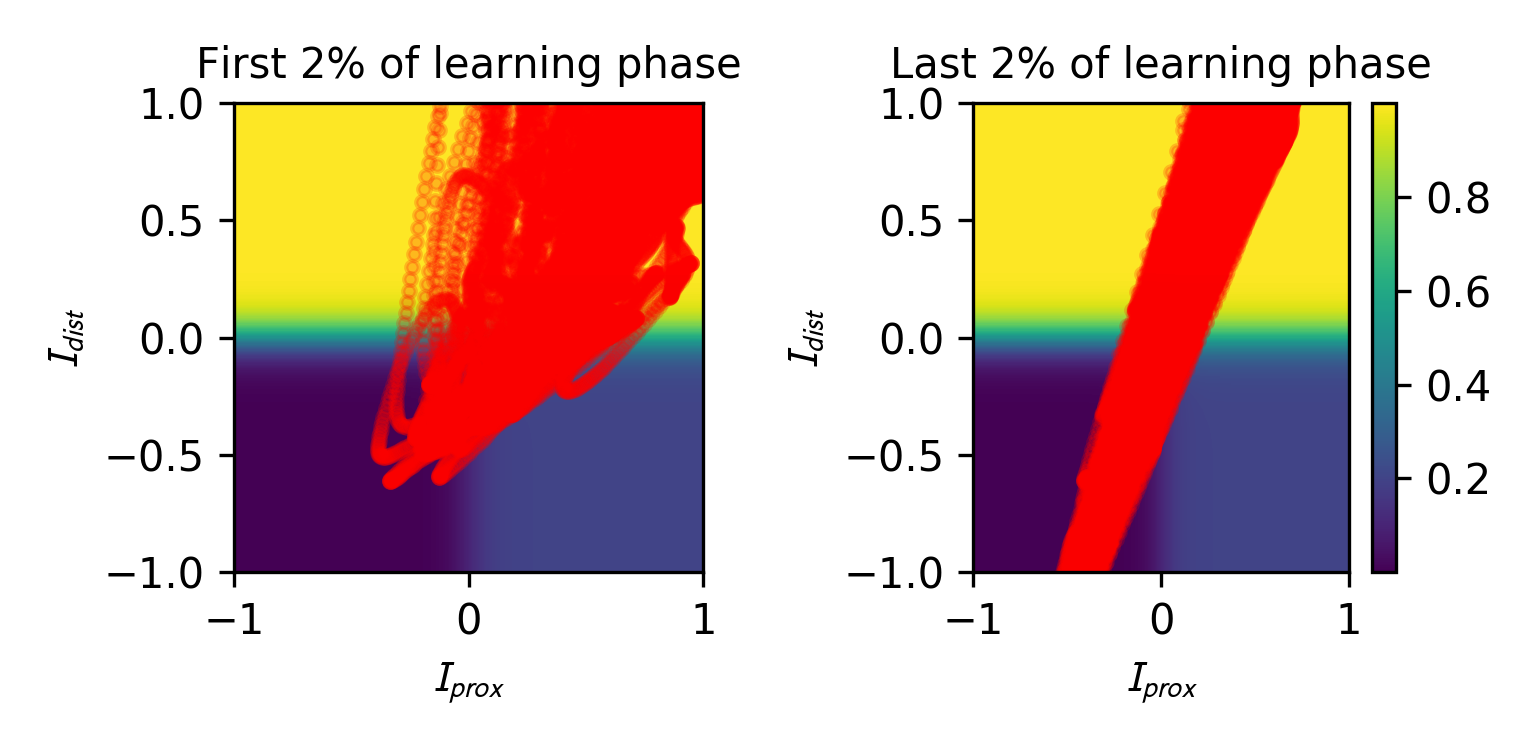
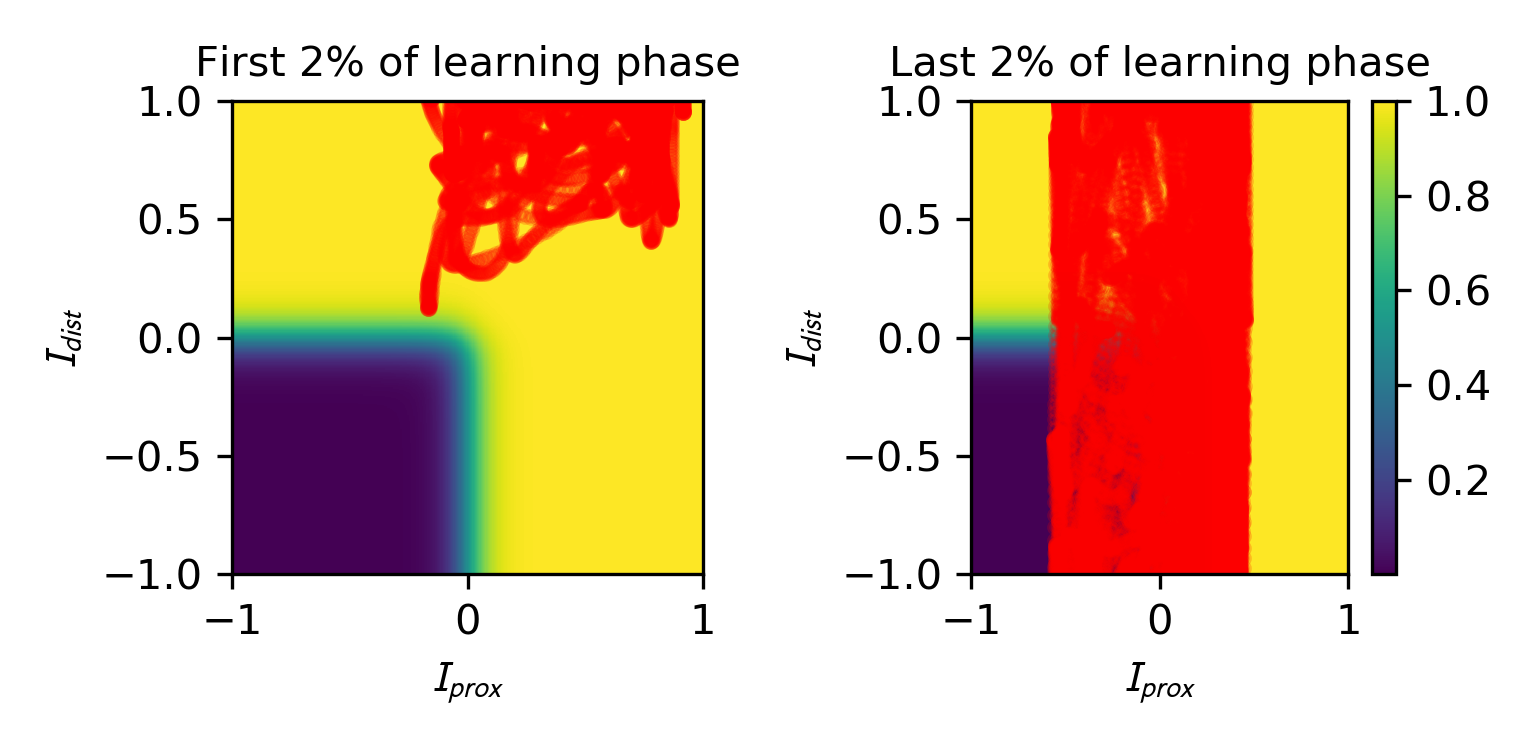
.

diff --git a/code/clopath_reduced_model.py b/code/clopath_reduced_model.py
@@ -1,0 +1,216 @@
+#!/usr/bin/env python3
+
+import numpy as np
+import matplotlib.pyplot as plt
+
+from tqdm import tqdm
+
+import pdb
+
+## Parameters
+
+dt = 0.0001 # simulation time step, secs
+
+T = .5 # simulation time, secs
+
+
+g_L = 40.*10.**(-3.) # leak conductance, mS
+E_L = -69. # resting potential, mV
+C = 281.*10.**(-6.) # membrane capacitance, mF
+τ_ampa = 0.002 # AMPA time constant, secs
+E_ampa = 0. # AMPA reversal potential, mV
+τ_nmda = 0.05 # NMDA time constant, secs
+E_nmda = 0. # NMDA reversal potentia, mV
+g_ampa = 100.*10.**(-3.) # maximal AMPA conductance, mS
+g_nmda = 50.*10.**(-3.) # NMDA conductance, mS
+θ = 20. # spiking threshold, mV
+Δ_T = 2. # slope factor, mV
+V_Trest = -50.4 # adaptive threshold rest value, mV
+V_Tmax = -30.4 # adaptive threshold max value, mV
+τ_VT = 0.05 # adaptive threshold time constant, secs
+V_reset = -55. # voltage reset, mV
+τ_neg = 35. # low-pass filter time constant 1, ms
+τ_pos = 35. # low-pass filter time constant 2, ms
+θ_neg = -69. # depolarisation threshold for plasticity, mV
+θ_pos = -15. # depolarisation threshold for potentiation, mV
+Δ_spike = .001 # spike width, secs
+V_spike = 30. # spike plateau potential, mV
+x_reset = 1. # spike trace reset value
+τ_x = 15. # spike trace time constant, ms
+A_ltd = 5.*10.**(-4.) # depression amplitude, mV^-1
+A_ltp = 15.*10.**(-4.) # potentiation amplitude, mV^-1
+
+τ_noise = 0.02 # membrane noise time constant, secs
+σ_noise = 0.#35.*10.**(-3.) # membrane noise std dev, mA 
+
+
+
+w_prox = 1.
+w_dist = 1.
+
+n_comp = 4
+
+n_mult_single_prox = 10.
+n_mult_connect_prox = 10.
+
+'''
+comp 0: soma
+comp 1: single proximal
+comp 2: connecting proximal
+comp 3: distal
+'''
+labels = ["soma","single proximal","connecting proximal","distal"]
+
+g_axial_soma_som_prox_neg = 50.*10.**(-3.)
+g_axial_proximal_som_prox_neg = 1250.*10.**(-3.)
+g_axial_proximal_som_prox_pos = 2500.*10.**(-3.)
+g_axial_proximal_prox_dist_neg = 225.*10.**(-3.)
+g_axial_proximal_prox_dist_pos = 1500.*10.**(-3.)
+g_axial_dist_dist_prox_pos = 1500.*10.**(-3.)
+g_axial_dist_dist_prox_neg = 225.*10.**(-3.)
+
+##
+
+n_sweep_rate_prox = 10
+n_sweep_rate_dist = 20
+
+rate_prox_sweep = np.linspace(0.,100.,n_sweep_rate_prox)
+rate_dist_sweep = np.linspace(0.,350.,n_sweep_rate_dist)
+
+output_rate = np.ndarray((n_sweep_rate_prox,n_sweep_rate_dist))
+
+for i in tqdm(range(n_sweep_rate_prox)):
+	for j in range(n_sweep_rate_dist):
+
+		r_prox = rate_prox_sweep[i] # input spike rate proximal, spikes/sec
+		r_dist = rate_dist_sweep[j] # input spike rate distal, spikes/sec
+
+		g_dyn_ampa_prox = 0.
+		g_dyn_nmda_prox = 0.
+
+		g_dyn_ampa_dist = 0.
+		g_dyn_nmda_dist = 0.
+
+
+		n_t = int(T/dt)
+		T = n_t*dt
+
+		u_rec = np.ndarray((n_t,n_comp))
+		V_T_rec = np.ndarray((n_t))
+
+		spike_list = [[],[],[],[]]
+
+		u = V_reset*np.ones(n_comp)
+
+		V_T = V_Trest
+
+		spiking_state = 0.*np.ones(n_comp) # are we in the spike peak?
+		t_last_spike = 0.*np.ones(n_comp) # time since last spike onset
+
+		I_noise = 0.*np.ones(n_comp)
+
+		I_axial = 0.*np.ones(n_comp)
+
+		I_ext = 1.*np.ones(n_comp)
+
+		I_ext[0] = 0.
+		I_ext[1] = 0.
+		I_ext[2] = 0.
+		I_ext[3] = 0.
+
+		I_exp = np.zeros(n_comp)
+
+		for t in tqdm(range(n_t)):
+
+			I_L = -g_L*(u - E_L)
+
+			I_exp[0] = g_L * Δ_T * np.exp((u[0] - V_T)/Δ_T)
+
+			I_ampa_prox = -g_dyn_ampa_prox * (u[1] - E_ampa)
+			I_nmda_prox = -g_dyn_nmda_prox * (u[1] - E_nmda)
+
+			I_ampa_dist = -g_dyn_ampa_dist * (u[3] - E_ampa)
+			I_nmda_dist = -g_dyn_nmda_dist * (u[3] - E_nmda)
+
+
+			I_noise += -dt*I_noise/τ_noise + dt**.5*σ_noise*np.random.normal(0.,1.,(n_comp))/τ_noise**.5
+			
+			I_axial[0] = -g_axial_soma_som_prox_neg*(np.minimum(0.,u[0]-u[1])*n_mult_single_prox + np.minimum(0.,u[0]-u[2])*n_mult_connect_prox)
+			
+			I_axial[1] = -g_axial_proximal_som_prox_neg*np.minimum(0.,u[1]-u[0]) \
+						-g_axial_proximal_som_prox_pos*np.maximum(0.,u[1]-u[0])
+			
+			I_axial[2] = -g_axial_proximal_som_prox_neg*np.minimum(0.,u[2]-u[0]) \
+						-g_axial_proximal_som_prox_pos*np.maximum(0.,u[2]-u[0]) \
+						-g_axial_proximal_prox_dist_neg*np.minimum(0.,u[2]-u[3]) \
+						-g_axial_proximal_prox_dist_pos*np.maximum(0.,u[2]-u[3])
+
+			I_axial[3] = -g_axial_dist_dist_prox_neg*np.minimum(0.,u[3]-u[2]) \
+						-g_axial_dist_dist_prox_pos*np.maximum(0.,u[3]-u[2])
+			
+			g_dyn_ampa_prox += -dt*g_dyn_ampa_prox/τ_ampa
+			g_dyn_nmda_prox += -dt*g_dyn_nmda_prox/τ_nmda
+
+			g_dyn_ampa_dist += -dt*g_dyn_ampa_dist/τ_ampa
+			g_dyn_nmda_dist += -dt*g_dyn_nmda_dist/τ_nmda
+
+			spike_prox = 1.*(np.random.rand()<=dt*r_prox)
+			spike_dist = 1.*(np.random.rand()<=dt*r_dist)
+
+			g_dyn_ampa_prox += g_ampa*spike_prox*w_prox
+			g_dyn_nmda_prox += g_nmda*spike_prox*w_prox
+
+			g_dyn_ampa_dist += g_ampa*spike_dist*w_dist
+			g_dyn_nmda_dist += g_nmda*spike_dist*w_dist
+
+			for k in range(n_comp):
+				if u[k] < θ and not(spiking_state[k]):
+					if k == 1:
+						u[k] += dt * (I_L[k] + I_exp[k] + I_axial[k] + I_ext[k] + I_noise[k] + I_ampa_prox + I_nmda_prox)/C
+					elif k == 3:
+						u[k] += dt * (I_L[k] + I_exp[k] + I_axial[k] + I_ext[k] + I_noise[k] + I_ampa_dist + I_nmda_dist)/C
+					else:
+						u[k] += dt * (I_L[k] + I_exp[k] + I_axial[k] + I_ext[k] + I_noise[k])/C	
+				if u[k] >= θ and not(spiking_state[k]):
+					spiking_state[k] = 1.
+					if k == 0:
+						V_T = V_Tmax
+					t_last_spike[k] = t*dt
+					u[k] = V_spike
+					spike_list[k].append(t*dt)
+
+				if spiking_state[k] and (t*dt - t_last_spike[k]) > Δ_spike:
+					spiking_state[k] = 0
+					u[k] = V_reset
+
+
+			V_T += dt * (-(V_T - V_Trest)/τ_VT)
+
+
+			u_rec[t,:] = u
+			V_T_rec[t] = V_T
+
+
+		output_rate[i,j] = len(spike_list[0])/T
+
+fig_sweep, ax_sweep = plt.subplots(1,1)#
+ax_sweep.pcolormesh(output_rate)
+
+t_arr = np.linspace(0.,T,n_t)
+
+fig_u,ax_u = plt.subplots(1,1)
+for k in range(n_comp):
+	ax_u.plot(t_arr,u_rec[:,k],label=labels[k])
+plt.legend()
+
+fig_V_T,ax_V_T = plt.subplots(1,1)
+ax_V_T.plot(t_arr,V_T_rec)
+
+fig_spikes,ax_spikes = plt.subplots(1,1)
+
+for k in range(n_comp):
+	ax_spikes.plot(np.array(spike_list[k]),np.ones(len(spike_list[k]))*k,'x')
+
+plt.show()
+
+pdb.set_trace()

diff --git a/code/single_neuron_pd_learn.py b/code/single_neuron_pd_learn.py
@@ -42,15 +42,22 @@ def synnorm(w,w_total):
 
 
 
-def main(n_prox = 1, n_dist = 10, n_t_learn = 2000000, X_p = np.load("rand_chaotic_sequ.npy"), X_d = np.load("rand_chaotic_sequ.npy")[:,0], alpha_pd = 0.2, gain_pd = 20., gain_d_sign_inv = 1., w_dist = 1., w_prox_total = 1., w_prox_max = 1., w_prox_min = 0.0001, w_dist_total = 1., w_dist_max = 1., w_dist_min = 0.0001, mu_learn = 0.00005, mu_hom = 0.00002,  mu_avg = 0.00002):
+
+def main(n_prox = 1, n_dist = 10, n_t_learn = 1000000, X_p = np.load("rand_chaotic_sequ.npy"), X_d = np.load("rand_chaotic_sequ.npy")[:,0], alpha_pd = 1.0, gain_pd = 20., gain_d_sign_inv = 1., w_dist = 1., w_prox_total = 1., w_prox_max = 1., w_prox_min = 0.0001, w_dist_total = 1., w_dist_max = 1., w_dist_min = 0.0001, mu_learn = 0.00005, mu_hom = 0.00002,  mu_avg = 0.00002):
 	
 	# initialize proximal weights
-	w_prox = np.ones(n_prox)
-	w_prox = w_prox_total * w_prox/w_prox.sum()
+	if n_prox > 1:
+		w_prox = np.ones(n_prox)
+		w_prox = w_prox_total * w_prox/w_prox.sum()
+	else:
+		w_prox = 1
 
 	# initialize distal weights
-	w_dist = np.ones(n_dist)
-	w_dist = w_dist_total * w_dist/w_dist.sum()
+	if n_dist > 1:
+		w_dist = np.ones(n_dist)
+		w_dist = w_dist_total * w_dist/w_dist.sum()
+	else:
+		w_dist = 1
 
 	# initialize weights for "analytic" time evolution, by covariances
 	w_prox_analytic = np.ones(n_prox)
@@ -77,8 +84,14 @@ def main(n_prox = 1, n_dist = 10, n_t_learn = 2000000, X_p = np.load("rand_chaot
 
 	# initialize running averages
 	x_mean = 0.5
-	X_p_mean = X_p[0,:]
-	X_d_mean = X_d[0,:]
+	if n_prox > 1:
+		X_p_mean = X_p[0,:]
+	else:
+		X_p_mean = X_p[0]
+	if n_dist > 1:
+		X_d_mean = X_d[0,:]
+	else:
+		X_d_mean = X_d[0]
 
 	# initialize recordings
 	x_rec = np.ndarray((n_t_learn))
@@ -106,17 +119,32 @@ def main(n_prox = 1, n_dist = 10, n_t_learn = 2000000, X_p = np.load("rand_chaot
 
 	for t in tqdm(range(n_t_learn)):
 
-		I_p = np.dot(w_prox,X_p[t,:]) - th_p
-		I_d = np.dot(w_dist,X_d[t,:]) - th_d
-
+		if n_prox > 1:
+			I_p = np.dot(w_prox,X_p[t,:]) - th_p
+		else:
+			I_p = w_prox*X_p[t] - th_p
+		if n_dist > 1:
+			I_d = np.dot(w_dist,X_d[t,:]) - th_d
+		else:
+			I_d = w_dist*X_d[t] - th_d
+		
 		th_p += mu_hom*I_p
 		th_d += mu_hom*I_d
 		
 		x = act_pd(I_p,I_d,alpha_pd,gain_pd)
 
 		x_mean += mu_avg*(x - x_mean)
-		X_p_mean += mu_avg*(X_p[t,:] - X_p_mean)
-		X_d_mean += mu_avg*(X_d[t,:] - X_d_mean)
+		
+		if n_prox > 1:
+			X_p_mean += mu_avg*(X_p[t,:] - X_p_mean)
+		else:
+			X_p_mean += mu_avg*(X_p[t] - X_p_mean)
+
+		if n_dist > 1:
+			X_d_mean += mu_avg*(X_d[t,:] - X_d_mean)
+		else:
+			X_d_mean += mu_avg*(X_d[t] - X_d_mean)
+
 
 		## plasticity
 		
@@ -160,7 +188,14 @@ def main(n_prox = 1, n_dist = 10, n_t_learn = 2000000, X_p = np.load("rand_chaot
 
 		w_dist_rec[t,:] = w_dist
 
-		X_p_mean_rec[t,:] = X_p_mean
+		if n_prox > 1:
+			X_p_mean_rec[t,:] = X_p_mean
+		else:
+			X_p_mean_rec[t] = X_p_mean
+		if n_dist > 1:
+			X_d_mean_rec[t,:] = X_d_mean
+		else:
+			X_d_mean_rec[t] = X_d_mean
 
 		I_p_rec[t] = I_p
 		I_d_rec[t] = I_d
@@ -316,7 +351,7 @@ def main(n_prox = 1, n_dist = 10, n_t_learn = 2000000, X_p = np.load("rand_chaot
 
 if __name__ == "__main__":
 	
-	#'''
+	'''
 	X_p = np.ndarray((2000000,10))
 	for k in tqdm(range(10)):
 
@@ -325,14 +360,15 @@ if __name__ == "__main__":
 	X_p = (X_p+1.)/2.
 
 	np.save("rand_chaotic_sequ.npy",X_p)
-	#'''	
+	'''	
 
 	X_d_sequ = np.load("rand_chaotic_sequ.npy")
 
 	#X_d_sequ = np.ndarray((2000000,10))
 
-	X_p_sequ = X_p_sequ[:,0]
+	X_p_sequ = X_d_sequ[:,0]
 
+	X_d_sequ[:,1] *= 3.
 		
 	main(X_p = X_p_sequ, X_d = X_d_sequ)
 

diff --git a/code/plot_setting.py b/code/plot_setting.py
@@ -22,5 +22,5 @@ file_format = [".png",".svg",".eps"] ## cycle through file formats and append to
 #sim_data_base_folder = "/home/fschubert/Master/sim_data/"
 #sim_data_base_folder = "/media/fschubert/Ohne Titel/sim_data/"
 
-plots_base_folder = "/home/fschubert/work/repos/Elman_Net/plots/" # base folder of plots
-
+#plots_base_folder = "/home/fschubert/work/repos/Elman_Net/plots/" # base folder of plots
+plots_base_folder = "/home/fabian/work/repos/Elman_Net/plots/"
